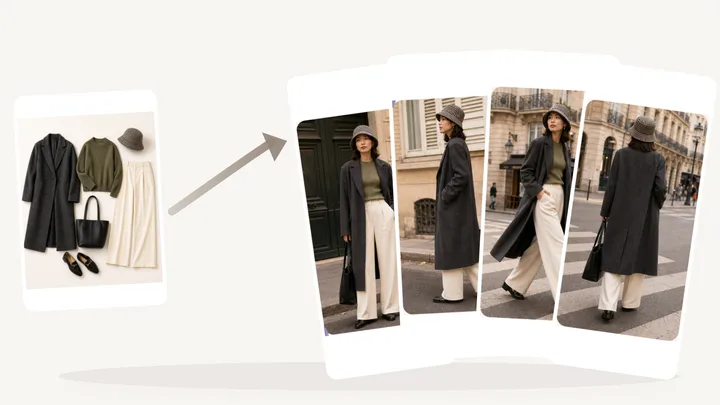
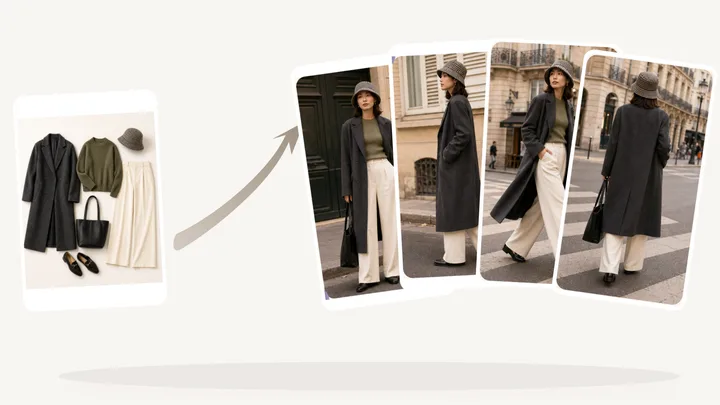
fix: refine try-on arrow and fan cards

Changed region(s): [[0.2139, 0.0889, 1.0, 0.8593], [0.4278, 0.8889, 0.6111, 0.9481], [0.825, 0.8889, 0.9167, 0.9481]]

diff --git a/src/pages/Home/productionCaseCatalog.js b/src/pages/Home/productionCaseCatalog.js
@@ -109,7 +109,7 @@ export const PRODUCTION_CASE_CATALOG = Object.freeze([
       asset({ id: 'tryon-angle-motion', src: '/images/home/tryon-showcase/angle-motion.png', label: '动态行走', role: 'result', ratio: '9:16', intent: 'anything_tryon', taskId: 'ec_production_tryon_complete_20260814_v1', requestKey: 'production-tryon-complete-result', prompt: '同一套完整穿搭的动态行走姿态，具有时尚感且不裁切。' }),
       asset({ id: 'tryon-angle-side', src: '/images/home/tryon-showcase/angle-side.png', label: '侧面版型', role: 'result', ratio: '9:16', intent: 'anything_tryon', taskId: 'ec_production_tryon_complete_20260814_v1', requestKey: 'production-tryon-complete-result', prompt: '同一套完整穿搭的侧面版型视图，展示衣摆、裤型与配饰关系。' }),
       asset({ id: 'tryon-angle-back', src: '/images/home/tryon-showcase/angle-back.png', label: '背面细节', role: 'result', ratio: '9:16', intent: 'anything_tryon', taskId: 'ec_production_tryon_complete_20260814_v1', requestKey: 'production-tryon-complete-result', prompt: '同一套完整穿搭的背面视图，保持人物与场景连续。' }),
-      asset({ id: 'tryon-angles-workflow', src: '/images/home/tryon-showcase/editorial-multi-angle-v6.webp?v=arrow-clear-v3', label: '商品到多角度成片', role: 'result', ratio: '16:9', intent: 'anything_tryon', taskId: 'ec_production_tryon_complete_20260814_v1', requestKey: 'production-tryon-complete-result', provenance: 'production-composite', displayRole: 'workflowBanner', selectorPreview: true, prompt: '完整展示炭灰长大衣、橄榄绿针织、奶油色阔腿裤、格纹帽、黑色托特包与四个正式生产的全身时尚角度。' }),
+      asset({ id: 'tryon-angles-workflow', src: '/images/home/tryon-showcase/editorial-multi-angle-v6.webp?v=arrow-fan-v4', label: '商品到多角度成片', role: 'result', ratio: '16:9', intent: 'anything_tryon', taskId: 'ec_production_tryon_complete_20260814_v1', requestKey: 'production-tryon-complete-result', provenance: 'production-composite', displayRole: 'workflowBanner', selectorPreview: true, prompt: '完整展示炭灰长大衣、橄榄绿针织、奶油色阔腿裤、格纹帽、黑色托特包与四个正式生产的全身时尚角度。' }),
     ]),
   }),
   Object.freeze({
